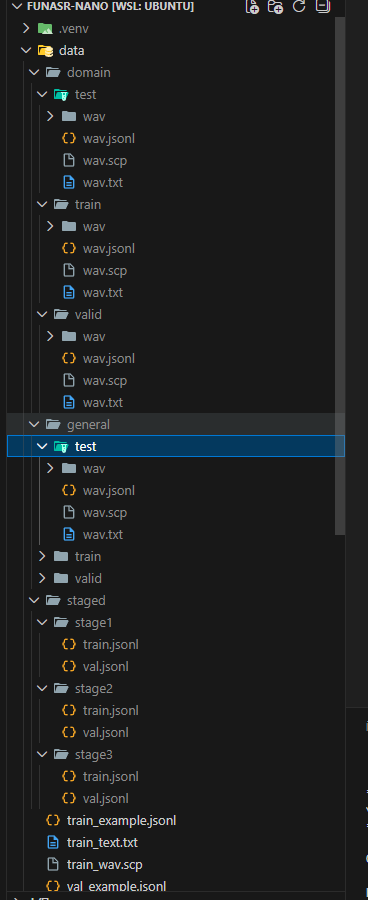
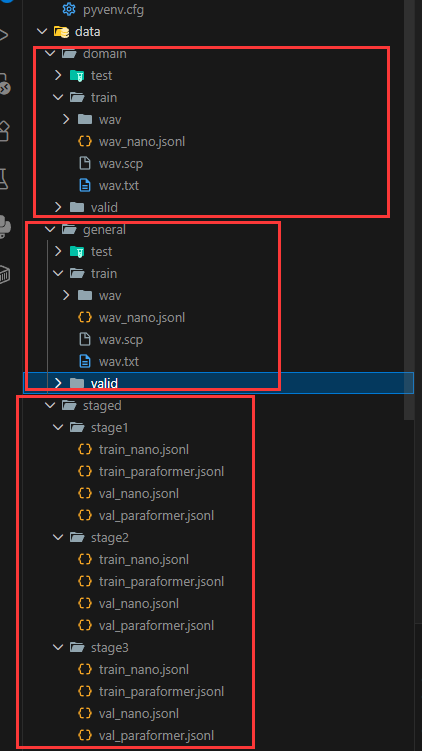
add: 新增支持paraformer系列模型

diff --git a/demo1.py b/demo1.py
@@ -2,7 +2,8 @@ import torch
 
 
 def main():
-    model_dir = "models/Fun-ASR-Nano-2512"
+    # model_dir = "models/Fun-ASR-Nano-2512"
+    model_dir = "models/Fun-ASR-Nano-merged"
     device = (
         "cuda:0"
         if torch.cuda.is_available()

diff --git a/README.md b/README.md
@@ -246,8 +246,6 @@ To reduce data preparation complexity, support for mixed-sample data is provided
 
 `tools/datasets_utils.py`This utility class supports most file conversions, including converting TXT to SCP, JSON to JSONL, Excel to JSONL, and more. It covers Whisper and Funasr input features. When using this utility class, it is recommended to prepare WAV and TXT data according to the following structure and use this utility class to generate SCP files.
 
-![img1](resource/image.png)
-
 ![img2](resource/image2.png)
 
 ```bash
@@ -259,28 +257,50 @@ uv run tools/datasets_utils.py
 **linux**
 
 ```bash
+# nano
  uv run tools/scp2jsonl.py \
   ++scp_file=data/domain/train/wav.scp \
   ++transcript_file=data/domain/train/wav.txt \
   ++jsonl_file=data/domain/train/wav.jsonl
+
+  # paraformer models
+scp2jsonl \
+++scp_file_list='["data/domain/train/wav.scp", "data/domain/train/wav.txt"]' \
+++data_type_list='["source", "target"]' \
+++jsonl_file_out="data/domain/train/wav_paraformer.jsonl"
 ```
 
 **win**
 
 ```bash
-uv run tools/scp2jsonl.py ++scp_file=data/domain/train/wav.scp ++transcript_file=data/domain/train/wav.txt ++jsonl_file=data/domain/train/wav.jsonl
+# nano
+uv run tools/scp2jsonl.py ++scp_file=data/domain/train/wav.scp ++transcript_file=data/domain/train/wav.txt ++jsonl_file=data/domain/train/wav_nano.jsonl
+
+# paraformer models
+scp2jsonl ++scp_file_list='["data/domain/train/wav.scp", "data/domain/train/wav.txt"]' ++data_type_list='["source", "target"]' ++jsonl_file_out="data/domain/train/wav_paraformer.jsonl"
 ```
 
 ### 3.Use prepare_staged_data.py to blend datasets
 
-Operational Data Preparation
+Operational Data Preparation for Nano
 
 ```bash
 uv run tools/prepare_staged_data.py \
-  --general_train data/general/train/wav.jsonl \
-  --general_val data/general/valid/wav.jsonl \
-  --domain_train data/domain/train/wav.jsonl \
-  --domain_val data/domain/valid/wav.jsonl \
+  --general_train data/general/train/wav_nano.jsonl \
+  --general_val data/general/valid/wav_nano.jsonl \
+  --domain_train data/domain/train/wav_nano.jsonl \
+  --domain_val data/domain/valid/wav_nano.jsonl \
+  --output_dir data/staged
+```
+
+Operational Data Preparation for paraformer
+
+```bash
+uv run prepare_staged_data.py \
+  --general_train data/general/train/wav_paraformer.jsonl \
+  --general_val data/general/valid/wav_paraformer.jsonl \
+  --domain_train data/domain/train/wav_paraformer.jsonl \
+  --domain_val data/domain/valid/wav_paraformer.jsonl \
   --output_dir data/staged
 ```
 
@@ -300,7 +320,10 @@ uv run tools/prepare_staged_data.py \
 
 ![img3](resource/image3.png)
 
-### 4.Fine-tune the parameters in finetune_stage.sh
+### 4.One-Click Fine-Tuning Training
+
+nano training script reference: finetune_stage.sh
+paraformer training script reference: finetune_paraformer.sh
 
 ```bash
 # Pre-trained Model Path
@@ -313,17 +336,18 @@ FREEZE_PARAMS="
 ++llm_conf.freeze=true
 ```
 
-| params                  | content                                            |
-| ----------------------- | -------------------------------------------------- |
-| model_name_or_model_dir | Model Path                                         |
-| audio_encoder_conf      | Acoustic Encoder, True Freeze                      |
-| audio_adaptor_conf      | Acoustic Adaptation Layer, false (does not freeze) |
-| llm_conf                | High-Level Semantic Module, true freeze            |
+For reference `https://github.com/modelscope/FunASR/blob/main/examples/industrial_data_pretraining/paraformer/README_zh.md#%E6%A8%A1%E5%9E%8B%E8%AE%AD%E7%BB%83%E4%B8%8E%E6%B5%8B%E8%AF%95`
 
-### 5.One-Click Training
+- model_name_or_model_dir Model path
+- audio_encoder_conf Acoustic encoder, true (frozen)
+- audio_adaptor_conf Acoustic adapter layer, false (unfrozen)
+- llm_conf High-level semantic module, true (frozen)
 
 ```bash
-nohup bash auto_finetune.sh > full_train.log 2>&1 &
+# Nano Model Training
+nohup bash auto_finetune.sh > full_train_nano.log 2>&1 &
+# Paraformer Autoregressive Model Training
+nohup bash finetune_paraformer.sh > full_train_paraformer.log 2>&1 &
 ```
 
 ## Docker Training
@@ -333,14 +357,20 @@ Docker training containers are designed for single-use. Therefore, during traini
 
 ```bash
 # build image
-docker build -t funasr-nano-finetune:Dockerfile .
+docker build -t funasr-finetune:Dockerfile .
 
 docker builder prune --filter "until=24h"
+```
 
+# nano container training
+
+`Do not use the same mounted volume for multiple model containers, as this may lead to data corruption.`
+
+```bash
 mkdir nano-finetune
 
 # Launch a temporary container to copy files to the local machine.
-docker run -it --name nano-finetune funasr-nano-finetune:Dockerfile /bin/bash
+docker run -it --name nano-finetune funasr-finetune:Dockerfile /bin/bash
 
 # Open a new terminal Copy the data Copy any files you wish to debug yourself
 docker cp nano-finetune:/workspace $PWD
@@ -360,7 +390,7 @@ docker run -it --network host --shm-size=32g \
 --gpus all --cpus=12 \
 -v $PWD/workspace:/workspace \
 --restart=on-failure \
---name nano-finetune funasr-nano-finetune:Dockerfile /bin/bash
+--name nano-finetune funasr-finetune:Dockerfile /bin/bash
 
 # start train
 nohup bash auto_finetune.sh > full_train.log 2>&1 &
@@ -368,6 +398,43 @@ nohup bash auto_finetune.sh > full_train.log 2>&1 &
 
 `shm-size` Parameters must be explicitly specified.
 `cpus` It is recommended to have four times the number of graphics cards.
+
+# Paraformer Container Training
+
+`Do not use the same mounted volume for multiple model containers, as this may lead to data corruption.`
+
+```bash
+mkdir paraformer-finetune
+
+# Launch a temporary container to copy files to the local machine.
+docker run -it --name paraformer-finetune funasr-finetune:Dockerfile /bin/bash
+
+# Open a new terminal Copy the data Copy any files you wish to debug yourself
+docker cp paraformer-finetune:/workspace $PWD
+
+# Exit the container and delete the temporary container
+docker rm -f paraformer-finetune
+
+mkdir $PWD/workspace/models $PWD/workspace/data  $PWD/workspace/outputs
+# Copy the model to your local machine
+mv <model-path> $PWD/workspace/models
+
+# Copy the model to your local machine
+mv <model-path> $PWD/workspace/data
+
+docker run -it --shm-size=8g --gpus=all --cpus=8 \
+  -p 10097:10095 \
+  -v $PWD/workspace:/workspace \
+  -e LANG=C.UTF-8 \
+  -e LC_ALL=C.UTF-8 \
+  -e NVIDIA_VISIBLE_DEVICES=all \
+  -e NVIDIA_DRIVER_CAPABILITIES=compute,utility \
+  --name paraformer-funasr \
+  funasr-finetune:Dockerfile /bin/bash
+
+# Start training
+nohup bash finetune_paraformer.sh > full_train_paraformer.log 2>&1 &
+```
 
 ## Multi-card training
 
